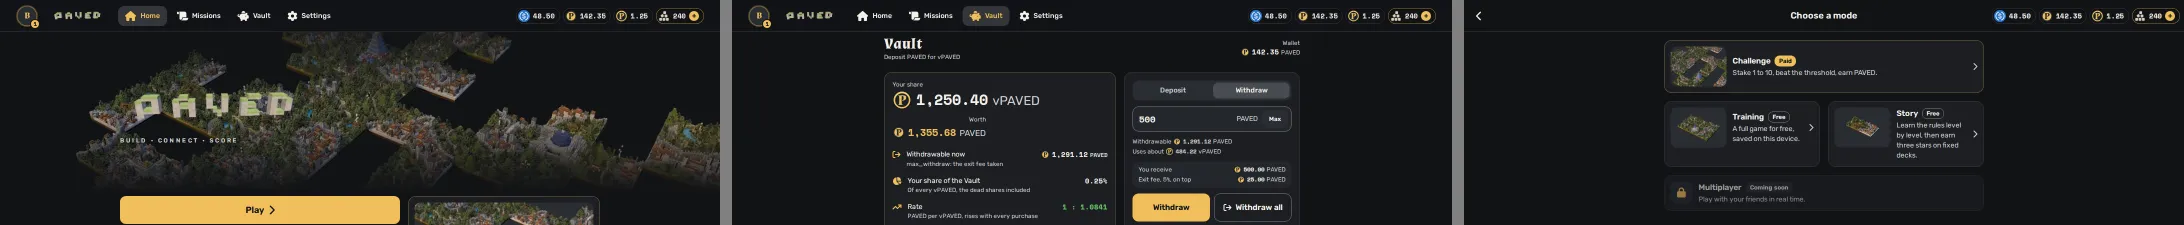
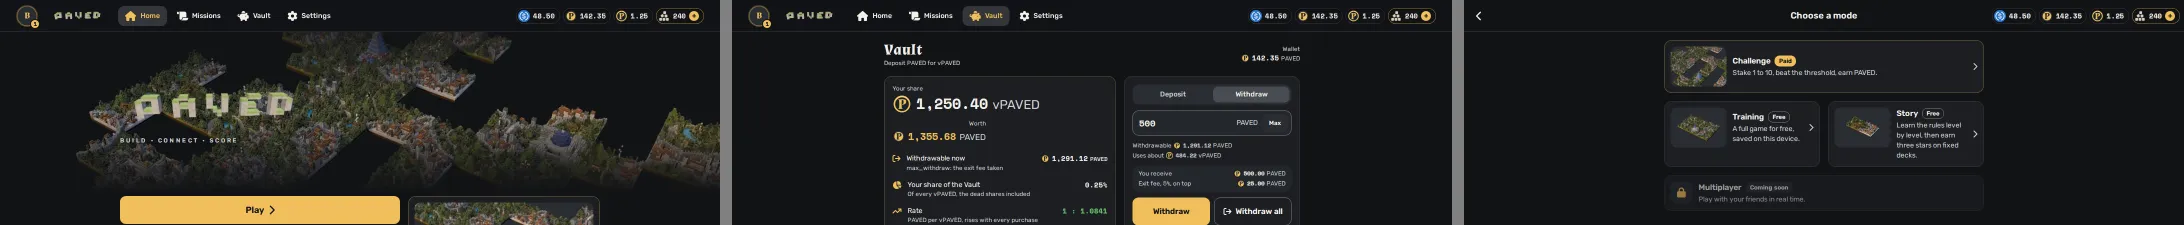
HEADER-HEIGHT: one header per page, the content at one height (review)
From `desktop` a tab page's title row is no longer a second header under the
navigation: it opens the content (56 px), 16 px under the header, where a
flow's content starts (80 px at 1440; 112 px at 375, as before).

The sweep now asserts one header at the top of every page and the same
content start on every page but the heroes (Home, Welcome), measured on the
first painted box's place in the layout. `Pages/Headers` gains the lifetime
Missions and the game over; `page-headers.ts` lists the routes each story
covers, a test checks the list covers every route but the board's, and the
sweep fails on a listed page without its story or a story not listed.
Captures retaken after.

diff --git a/packages/app/scripts/header-sweep.ts b/packages/app/scripts/header-sweep.ts
@@ -1,8 +1,12 @@
 /**
- * HEADER-HEIGHT (#676): every page outside the board has one header height per breakpoint. Each story of `Pages/Headers`
- * (one per page, in the shell's providers) at 375 px and at 1440 px: every header it shows, the `data-slot="page-header"`
- * elements and the navigation's header when it is one (from `desktop`, not the fixed bottom bar), is as tall as the
- * `--header-h` token (theme.css) at that width, the same on every page, and the topmost starts at the top of the page.
+ * HEADER-HEIGHT (#676): every page outside the board has one header height per breakpoint, and its content starts at the
+ * same height. Each story of `Pages/Headers` (one per page, in the shell's providers; `src/stories/page-headers.ts` lists
+ * them with the routes they cover) at 375 px and at 1440 px:
+ * - one header at the top of the page (a `data-slot="page-header"` element, or the navigation's header from `desktop`, not
+ *   the fixed bottom bar), as tall as the `--header-h` token (theme.css) at that width;
+ * - the content's first box (painted, text, a picture, a control, a tab page's title row from `desktop`) starts at the same
+ *   height in the layout on every page but the heroes (Home, Welcome);
+ * - every page listed has its story, and every story is listed.
  * Headless Chromium only (Playwright's headless shell), against `storybook-static` served on the loopback by this script.
  *
  *   bun run --filter @paved/app build-storybook
@@ -16,6 +20,7 @@ import { readFile, stat } from "node:fs/promises";
 import { dirname, extname, join, normalize, resolve } from "node:path";
 import { fileURLToPath } from "node:url";
 import { chromium, type Page } from "playwright-core";
+import { HERO_PAGES, PAGE_HEADER_STORIES } from "../src/stories/page-headers.ts";
 
 /** The stories of the page shells: one per page outside the board (src/stories/page-headers.stories.tsx). */
 const PREFIX = "pages-headers--";
@@ -95,26 +100,56 @@ async function render(page: Page, origin: string, id: string): Promise<void> {
 interface Measure {
   /** `--header-h` at this width, in px. */
   token: number;
-  /** Each header shown: its height and its top, in px. */
-  headers: { name: string; height: number; top: number }[];
+  /** The headers at the top of the page: their height. */
+  headers: { name: string; height: number }[];
+  /** Where the content starts: the top of its first element below the header, in px. */
+  content: number | null;
 }
 
-/** Runs in the page: the token and the headers on screen. */
+/** Runs in the page: the token, the header at the top, and where the content starts. */
 function measure(): Measure {
   const root = document.documentElement;
   const rem = parseFloat(getComputedStyle(root).fontSize);
   const raw = getComputedStyle(root).getPropertyValue("--header-h").trim();
   const token = raw.endsWith("rem") ? parseFloat(raw) * rem : parseFloat(raw);
-  const shown = (el: Element) => getComputedStyle(el).display !== "none" && el.getBoundingClientRect().height > 0;
-  const candidates = [...document.querySelectorAll('[data-slot="page-header"], nav[aria-label="Main"]')].filter(
-    (el) => shown(el) && (el.matches('[data-slot="page-header"]') || getComputedStyle(el).position !== "fixed"),
+  const shown = (el: Element) => {
+    const cs = getComputedStyle(el);
+    const r = el.getBoundingClientRect();
+    return cs.display !== "none" && cs.visibility !== "hidden" && r.width > 1 && r.height > 1;
+  };
+  const fixed = (el: Element) => {
+    for (let a: Element | null = el; a; a = a.parentElement) if (getComputedStyle(a).position === "fixed") return true;
+    return false;
+  };
+  const top = [...document.querySelectorAll('[data-slot="page-header"], nav[aria-label="Main"]')].filter(
+    (el) => shown(el) && Math.abs(el.getBoundingClientRect().top) < 0.5 && !(el.matches("nav") && getComputedStyle(el).position === "fixed"),
   );
+  const bottom = Math.max(0, ...top.map((el) => el.getBoundingClientRect().bottom));
+  // The content's first box: one with a background, a border or a shadow, text of its own, a picture, a control, or a header
+  // below the top one (a tab page's title row from `desktop`); not in the header, not fixed (the bottom bar, the edge fades).
+  // Its place in the layout (`offsetTop`), not on screen: a transform (a chosen card grown a little) moves no content.
+  const painted = (cs: CSSStyleDeclaration) =>
+    !/rgba\(.*, 0\)$|transparent/.test(cs.backgroundColor) || parseFloat(cs.borderTopWidth) > 0 || cs.boxShadow !== "none";
+  const layoutTop = (el: HTMLElement) => {
+    let y = 0;
+    for (let e: HTMLElement | null = el; e; e = e.offsetParent as HTMLElement | null) y += e.offsetTop + (e === el ? 0 : e.clientTop) - (e === el ? 0 : e.scrollTop);
+    return y;
+  };
+  let content: number | null = null;
+  for (const el of document.body.querySelectorAll<HTMLElement>("#storybook-root *")) {
+    if (top.some((h) => h.contains(el) || el.contains(h)) || !shown(el) || fixed(el)) continue;
+    const own = [...el.childNodes].some((n) => n.nodeType === Node.TEXT_NODE && n.textContent!.trim() !== "");
+    const cs = getComputedStyle(el);
+    if (!own && !painted(cs) && !el.matches('img, button, input, canvas, svg, [data-slot="card"], [data-slot="page-header"]')) continue;
+    const t = Math.round(layoutTop(el) * 100) / 100;
+    if (t >= bottom - 0.5 && (content === null || t < content)) content = t;
+  }
   return {
     token,
-    headers: candidates.map((el) => {
-      const r = el.getBoundingClientRect();
+    content,
+    headers: top.map((el) => {
       const label = el.getAttribute("aria-label");
-      return { name: `${el.tagName.toLowerCase()}${label ? `[${label}]` : ""}`, height: Math.round(r.height * 100) / 100, top: Math.round(r.top * 100) / 100 };
+      return { name: `${el.tagName.toLowerCase()}${label ? `[${label}]` : ""}`, height: Math.round(el.getBoundingClientRect().height * 100) / 100 };
     }),
   };
 }
@@ -127,35 +162,44 @@ async function main() {
     .map((e) => e.id);
   const failures: string[] = [];
   if (stories.length === 0) failures.push(`no story under ${PREFIX}: is storybook-static built?`);
+  const listed = Object.keys(PAGE_HEADER_STORIES);
+  for (const name of listed) if (!stories.includes(PREFIX + name)) failures.push(`${name}: listed in page-headers.ts, no story`);
+  for (const id of stories) if (!listed.includes(id.slice(PREFIX.length))) failures.push(`${id}: a story not listed in page-headers.ts`);
   const { server, origin } = await serve(opts.dir);
   const browser = await chromium.launch({ headless: true });
   try {
     const page = await browser.newPage({ reducedMotion: "reduce" });
     for (const width of opts.widths) {
       const heights = new Map<number, string[]>();
+      const starts = new Map<number, string[]>();
       for (const id of stories) {
         const name = id.slice(PREFIX.length);
         await page.setViewportSize({ width, height: 800 });
         await render(page, origin, id);
-        const { token, headers } = await page.evaluate(measure);
+        const { token, headers, content } = await page.evaluate(measure);
         if (!(token > 0)) failures.push(`${name} at ${width} px: no --header-h`);
-        if (headers.length === 0) failures.push(`${name} at ${width} px: no header`);
+        if (headers.length !== 1) failures.push(`${name} at ${width} px: ${headers.length} headers at the top (${headers.map((h) => h.name).join(", ")}), not one`);
         for (const h of headers) {
           if (Math.abs(h.height - token) > 0.5) failures.push(`${name} at ${width} px: ${h.name} is ${h.height} px, --header-h is ${token} px`);
           heights.set(h.height, [...(heights.get(h.height) ?? []), name]);
         }
-        const top = Math.min(...headers.map((h) => h.top));
-        if (headers.length && Math.abs(top) > 0.5) failures.push(`${name} at ${width} px: the first header starts at ${top} px, not at the top`);
-        console.log(`${width} px  ${name.padEnd(16)}  ${headers.map((h) => `${h.name} ${h.height}`).join(", ")}  (--header-h ${token})`);
+        const hero = HERO_PAGES.includes(name);
+        if (!hero) {
+          if (content === null) failures.push(`${name} at ${width} px: no content below the header`);
+          else starts.set(content, [...(starts.get(content) ?? []), name]);
+        }
+        console.log(`${width} px  ${name.padEnd(18)}  ${headers.map((h) => `${h.name} ${h.height}`).join(", ")}  content at ${content}${hero ? " (hero)" : ""}  (--header-h ${token})`);
       }
-      if (heights.size > 1) failures.push(`at ${width} px the headers differ: ${[...heights].map(([h, pages]) => `${h} px (${[...new Set(pages)].join(", ")})`).join("; ")}`);
+      const list = (m: Map<number, string[]>) => [...m].map(([v, pages]) => `${v} px (${[...new Set(pages)].join(", ")})`).join("; ");
+      if (heights.size > 1) failures.push(`at ${width} px the headers differ: ${list(heights)}`);
+      if (starts.size > 1) failures.push(`at ${width} px the content starts at different heights: ${list(starts)}`);
     }
   } finally {
     await browser.close();
     server.close();
   }
   for (const f of failures) console.log(`FAIL  ${f}`);
-  console.log(`\n${stories.length} pages x ${opts.widths.join(", ")} px: ${failures.length ? `${failures.length} failure(s)` : "one header height per width"}.`);
+  console.log(`\n${stories.length} pages x ${opts.widths.join(", ")} px: ${failures.length ? `${failures.length} failure(s)` : "one header height and one content start per width"}.`);
   process.exitCode = failures.length ? 1 : 0;
 }
 

diff --git a/packages/app/src/stories/page-headers.stories.tsx b/packages/app/src/stories/page-headers.stories.tsx
@@ -6,13 +6,15 @@ import { TRACKS } from "../lib/music/tracks";
 import { UPCOMING_CAMPAIGNS } from "../data/story";
 import { appRenders } from "../mocks/assets";
 import { PROGRESS } from "../mocks/players";
-import { COBBLES, HOME, MY_TILES, PLAY, PROFILE, PURCHASE, QUESTS, REFERRAL, SETTINGS, THEME, THEME_SHOP, VAULT, WELCOME } from "../mocks/scenes";
+import { ACHIEVEMENTS, COBBLES, HOME, MY_TILES, OVER, PLAY, PROFILE, PURCHASE, QUESTS, REFERRAL, SETTINGS, THEME, THEME_SHOP, VAULT, WELCOME } from "../mocks/scenes";
+import { AchievementsScene } from "../components/scenes/achievements-scene";
 import { BalancesProvider } from "../components/containers/balances-context";
 import { ProfileProvider } from "../components/containers/profile-context";
 import { CobblesScene } from "../components/scenes/cobbles-scene";
 import { CreditsScene } from "../components/scenes/credits-scene";
 import { HomeScene } from "../components/scenes/home-scene";
 import { MyTilesScene } from "../components/scenes/my-tiles-scene";
+import { OverScene } from "../components/scenes/over-scene";
 import { PlayScene } from "../components/scenes/play-scene";
 import { PurchaseScene } from "../components/scenes/purchase-scene";
 import { QuestsScene } from "../components/scenes/quests-scene";
@@ -34,10 +36,11 @@ const withShell: Decorator = (Story) => (
 );
 
 /**
- * HEADER-HEIGHT (#676): every page outside the board, one story each, in the shell's providers (the avatar, the balances).
- * Each page's header, the one marked `data-slot="page-header"` (the `TopBar`, the tab pages' title row, Home's top row, and
- * from `desktop` the navigation's header), is `--header-h` tall, one value per breakpoint (theme.css), so the content starts
- * at the same height on every page. `scripts/header-sweep.ts` measures them at 375 and 1440 px. Captures, Home, Vault and
+ * HEADER-HEIGHT (#676): every page outside the board, one story each (`page-headers.ts` lists the routes each covers), in
+ * the shell's providers (the avatar, the balances). Each page has one header at its top, `--header-h` tall, one value per
+ * breakpoint (theme.css): the `TopBar`, a tab page's title row below `desktop`, Home's top row, the navigation's header from
+ * `desktop` (where a tab page's title row is the first row of its content). The content starts at the same height on every
+ * page but the heroes (Home, Welcome). `scripts/header-sweep.ts` measures both at 375 and 1440 px. Captures, Home, Vault and
  * Play side by side before and after: `captures/header-height/header-height-{375,1440}-{before,after}.webp`.
  */
 const meta = { title: "Pages/Headers", decorators: [withShell], parameters: { layout: "fullscreen" } } satisfies Meta;
@@ -47,6 +50,7 @@ type Story = StoryObj<typeof meta>;
 export const Home: Story = { render: () => <HomeScene {...HOME.connected} /> };
 export const Play: Story = { render: () => <PlayScene {...PLAY.connected} onBack={fn()} /> };
 export const Missions: Story = { render: () => <QuestsScene {...QUESTS.today} /> };
+export const MissionsLifetime: Story = { render: () => <AchievementsScene {...ACHIEVEMENTS.mixed} /> };
 export const Vault: Story = { render: () => <VaultScene {...VAULT.position} /> };
 export const Settings: Story = { render: () => <SettingsScene {...SETTINGS.connected} /> };
 export const StoryCampaigns: Story = {
@@ -60,4 +64,5 @@ export const Referral: Story = { render: () => <ReferralScene {...REFERRAL.earne
 export const Credits: Story = { render: () => <CreditsScene tracks={TRACKS.map(titleOf)} onBack={fn()} /> };
 export const Cobbles: Story = { render: () => <CobblesScene {...COBBLES.packs} onBack={fn()} /> };
 export const Purchase: Story = { render: () => <PurchaseScene {...PURCHASE.stake1} onBack={fn()} /> };
+export const GameOver: Story = { render: () => <OverScene {...OVER.rewarded} /> };
 export const Welcome: Story = { render: () => <WelcomeScene {...WELCOME.firstVisit} /> };

diff --git a/packages/app/src/components/containers/tab-page.tsx b/packages/app/src/components/containers/tab-page.tsx
@@ -26,15 +26,19 @@ export interface TabPageProps {
 /**
  * A page of the five tabs (section 6.2), as Home lays itself out: the bottom bar below `desktop`, the header across the top
  * from it (direction D, #537); the title in the display font, an action on its right, the content in one column that widens
- * with the viewport, in the frame of the tab pages (`TabFrame`). The header is every page's header height (`page-header`,
- * #676): below `desktop` the title row (the avatar or Back, the title, `end`) over the balances' row, from it the title row.
+ * with the viewport, in the frame of the tab pages (`TabFrame`). Below `desktop` the header is every page's header height
+ * (`page-header`, #676): the title row (the avatar or Back, the title, `end`) over the balances' row. From `desktop` the
+ * navigation is the page's one header and the title row opens the content, where a flow's content starts.
  */
 export function TabPage({ tab, title, subtitle, onBack, end, onNavigate, children, className }: TabPageProps) {
   return (
     <TabFrame tab={tab} onNavigate={onNavigate}>
-      <main className={cn("mx-auto flex w-full max-w-md flex-col gap-4 px-4 pb-6 tablet:max-w-2xl desktop:max-w-4xl desktop:px-8 desktop:pb-10", className)}>
-        {/* Every page's header height (`page-header`, #676): the title row and the balances' row below `desktop`, the title row from it. */}
-        <header data-slot="page-header" className="page-header grid grid-cols-[1fr_auto] items-center gap-x-3">
+      <main className={cn("mx-auto flex w-full max-w-md flex-col gap-4 px-4 pb-6 tablet:max-w-2xl desktop:max-w-4xl desktop:px-8 desktop:pt-4 desktop:pb-10", className)}>
+        {/*
+          Below `desktop` the page's header (`page-header`, #676): the title row over the balances' row. From it the navigation is
+          the header, and this row is the content's first, 56 px, as far below it as a flow's content is below its top bar.
+        */}
+        <header data-slot="page-header" className="page-header grid grid-cols-[1fr_auto] items-center gap-x-3 desktop:h-14">
           <div className="flex min-w-0 items-center gap-1">
             {/* The top left is Back on a page reached from another, the player's avatar on a tab's own page (#624; from `desktop` it is in the navigation). */}
             {onBack ? (

diff --git a/packages/app/__tests__/header-height.test.tsx b/packages/app/__tests__/header-height.test.tsx
@@ -8,10 +8,14 @@ import { TopBar } from "../src/components/containers/top-bar";
 import { HomeScene } from "../src/components/scenes/home-scene";
 import { WelcomeScene } from "../src/components/scenes/welcome-scene";
 import { HOME, WELCOME } from "../src/mocks/scenes";
+import { PAGES } from "../src/routes/pages";
+import { PAGE_HEADER_STORIES } from "../src/stories/page-headers";
 
 // HEADER-HEIGHT (#676): every page's header takes its height from the token, never its own. The heights themselves are
 // measured in a browser at 375 and 1440 px by `scripts/header-sweep.ts` (jsdom lays nothing out).
-const OWN_HEIGHT = /(^|\s|:)(min-|max-)?h-(?!\(--header-h\))/;
+const OWN_HEIGHT = /(^|\s|:)(min-|max-)?h-/;
+/** The board's routes (`Shell.tsx`): the scene fills the viewport, no header. */
+const BOARD = ["game/:gameId", "training", "story/:campaign/:level"];
 
 function header(container: HTMLElement): HTMLElement {
   const found = container.querySelectorAll<HTMLElement>('[data-slot="page-header"]');
@@ -37,7 +41,13 @@ describe("the page headers", () => {
     const { container } = render(page());
     const el = header(container);
     expect(el).toHaveClass("page-header");
-    expect(el.className).not.toMatch(OWN_HEIGHT);
+    // A tab page's title row is the content's first row from `desktop` (the navigation is the header): 56 px there.
+    expect(el.className.replace(el.closest("main") ? "desktop:h-14" : "", "")).not.toMatch(OWN_HEIGHT);
+  });
+
+  it("the page shells of Pages/Headers cover every route but the board's", () => {
+    const covered = Object.values(PAGE_HEADER_STORIES).flat();
+    expect([...covered].sort()).toEqual(PAGES.map((p) => p.path).filter((p) => !BOARD.includes(p)).sort());
   });
 
   it("the navigation is a page header from desktop only (below it, the bottom bar)", () => {

diff --git a/packages/app/src/stories/page-headers.ts b/packages/app/src/stories/page-headers.ts
@@ -1,0 +1,26 @@
+/**
+ * HEADER-HEIGHT (#676): the stories of `Pages/Headers` (by story id, after `pages-headers--`) and the routes each renders.
+ * Together they cover every route of the route map but the board's (`routes/pages.ts`); a test keeps them in step, and
+ * `scripts/header-sweep.ts` fails on a page listed here without its story, or a story not listed.
+ */
+export const PAGE_HEADER_STORIES = {
+  welcome: ["welcome"],
+  home: [""],
+  play: ["play"],
+  purchase: ["play/challenge"],
+  cobbles: ["cobbles"],
+  "story-campaigns": ["story"],
+  "game-over": ["game/:gameId/over", "training/over"],
+  "missions-lifetime": ["missions/lifetime"],
+  missions: ["missions/:day?"],
+  vault: ["vault"],
+  referral: ["referral"],
+  themes: ["settings/theme"],
+  "theme-shop": ["settings/theme/:theme"],
+  "my-tiles": ["settings/tiles"],
+  credits: ["settings/credits"],
+  settings: ["settings"],
+} as const satisfies Record<string, readonly string[]>;
+
+/** The pages laid out as a hero (the board's render behind the wordmark): their content does not start after the header. */
+export const HERO_PAGES: readonly string[] = ["home", "welcome"];

diff --git a/packages/app/src/styles/theme.css b/packages/app/src/styles/theme.css
@@ -155,8 +155,9 @@
 
 /* 2c. HEADER-HEIGHT (#676, owner decision of 2026-10-21): one header height per breakpoint, the same on every page outside
    the board. Below `desktop` a page's header holds two rows, its title row (Back or the avatar, the title, an action) and the
-   balances' strip; from `desktop` one row (the navigation's header, a flow's top bar, a tab page's title row). The
-   `page-header` utility below puts a header on it; the content below starts at the same height on every page. The values
+   balances' strip; from `desktop` one row (the navigation's header, a flow's top bar; a tab page's title row is then the
+   first row of its content). The `page-header` utility below puts a header on it; every page has one at its top, and the
+   content below starts at the same height on every page. The values
    are the flows' top bar as measured at 375 px (96 px, its title row 56) and the navigation's header at 1440 px (64 px). */
 :root {
   --header-h: 6rem;

diff --git a/docs/client/v2-architecture.md b/docs/client/v2-architecture.md
@@ -2934,9 +2934,10 @@ Collection, Themes, Settings; Collection is out of v1 (P-57 B5) and Theme is a r
 - **Header height (#676, owner decision of 2026-10-21):** one header height per breakpoint on every page outside the board,
   the `--header-h` token of `styles/theme.css` (96 px below `desktop`: the title row, 56 px, over the balances' row; 64 px
   from it: one row) and its `page-header` utility: a flow's top bar, a tab page's title row, Home's top row, the
-  navigation's header from `desktop`, and the space above Welcome's content. No page sets its own; a title that does not
-  fit is cut with an ellipsis, its whole text in `title`. `scripts/header-sweep.ts` measures every page (the
-  `Pages/Headers` stories) at 375 and 1440 px.
+  navigation's header from `desktop` (a tab page's title row is then the first row of its content, 56 px, 16 px under the
+  header as a flow's content is), and the space above Welcome's content. Every page has one header at its top; no page sets
+  its own height; a title that does not fit is cut with an ellipsis, its whole text in `title`. `scripts/header-sweep.ts`
+  measures every page (the `Pages/Headers` stories) at 375 and 1440 px: the header's height and where the content starts.
 - Every page is a route: deep links, the browser's back button, and the referral `?ref=` kept across
   links (nums' `lib/router.tsx` idea).
 
